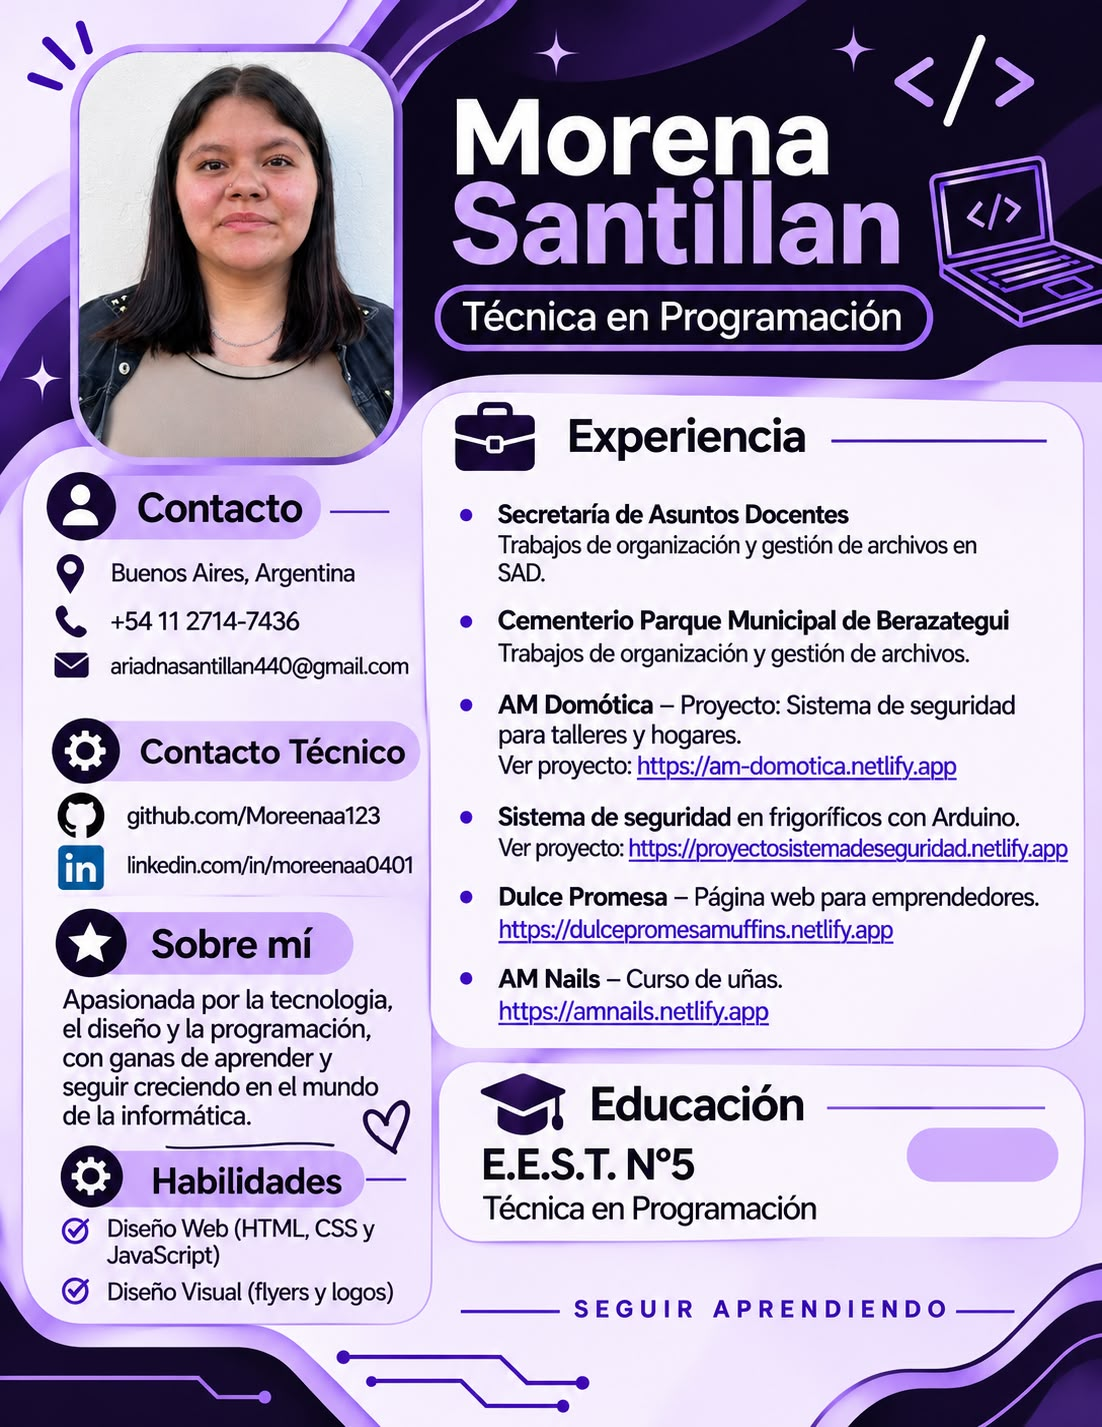
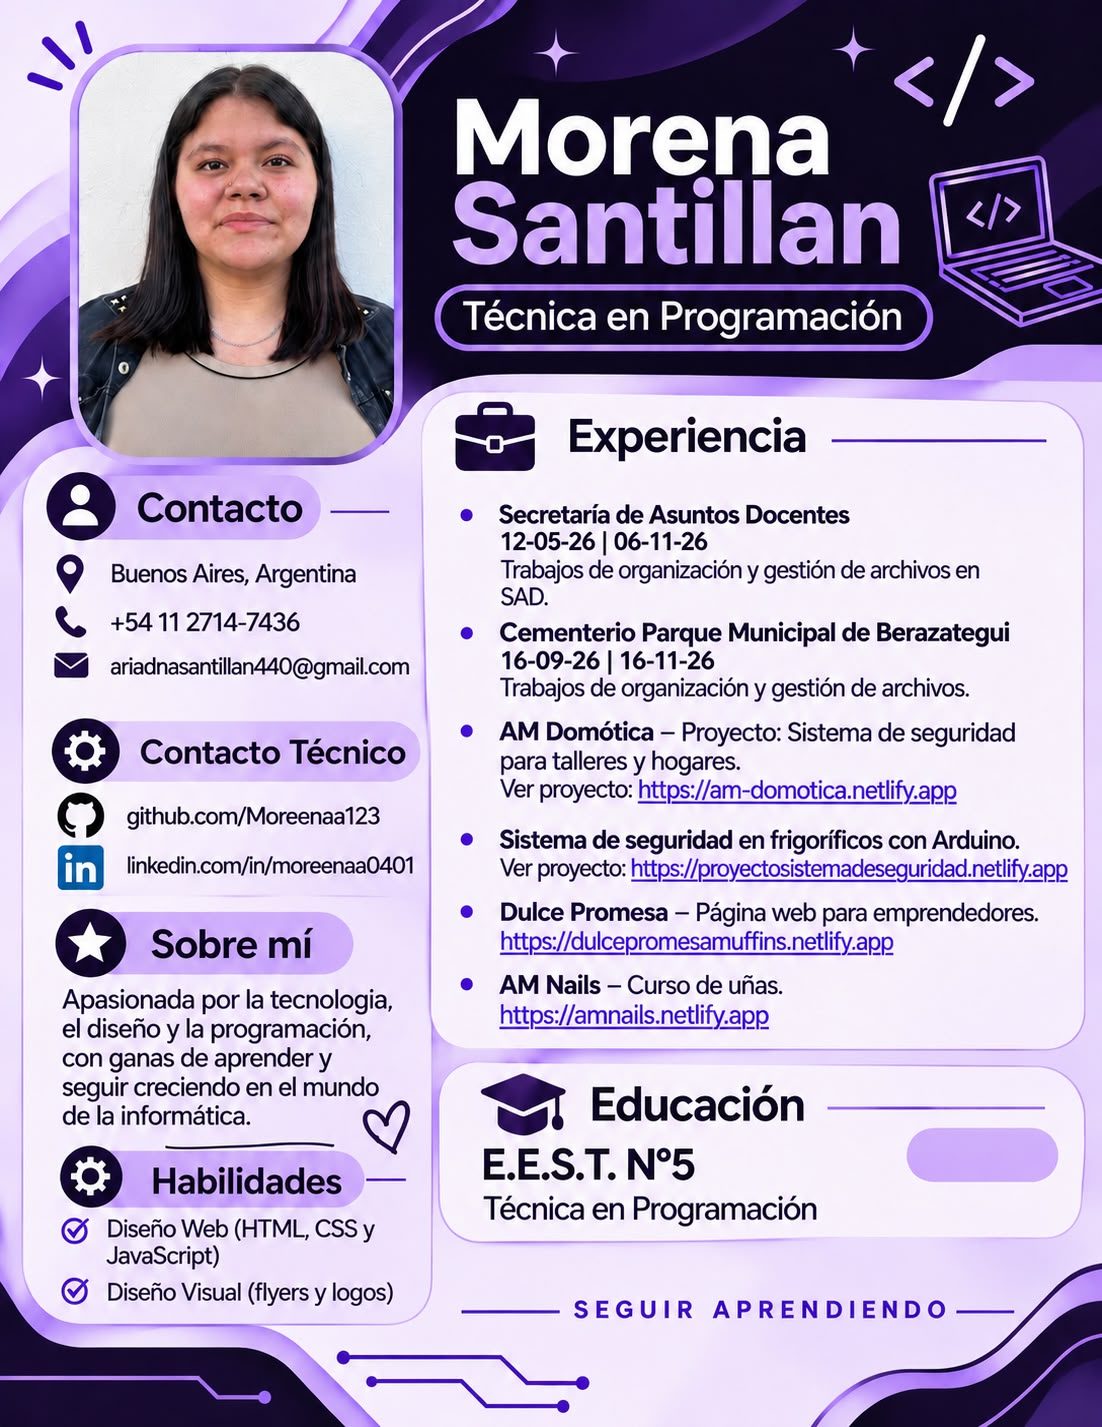
Add files via upload

diff --git a/index.html b/index.html
@@ -156,10 +156,6 @@
             con la mejora continua.
           </p>
 
-          <p>
-            Disfruto analizar desafíos, proponer soluciones tecnológicas
-            y desarrollar experiencias digitales centradas en las personas.
-          </p>
         </article>
 
         <article class="panel education-card">
@@ -170,7 +166,6 @@
 
           <h3>E.E.S.T. Nº5</h3>
           <p>Escuela de Educación Secundaria Técnica N°5</p>
-          <span class="education-date">2020 — 2026</span>
           <div class="education-line"></div>
           <strong>Título: Técnica en Programación</strong>
         </article>
@@ -182,10 +177,7 @@
           <strong>10+</strong>
           <span>Proyectos realizados</span>
         </div>
-        <div class="stat-card">
-          <strong>04</strong>
-          <span>Años de formación técnica</span>
-        </div>
+  
         <div class="stat-card">
           <strong>100%</strong>
           <span>Compromiso y creatividad</span>
@@ -250,12 +242,6 @@
           <i class="fab fa-js" aria-hidden="true"></i>
           <div class="skill-info"><span>JavaScript</span><small>Interactividad y lógica</small></div>
         </div>
-
-        <div class="skill-item">
-          <i class="fab fa-php" aria-hidden="true"></i>
-          <div class="skill-info"><span>PHP</span><small>Lógica del lado del servidor</small></div>
-        </div>
-
 
         <div class="skill-item">
           <i class="fas fa-pen-ruler" aria-hidden="true"></i>
@@ -407,6 +393,21 @@
             <h3>Sistema de dulce promesa</h3>
             <p>Proyecto orientado a los Emprendedores.</p>
             <a href="https://dulcepromesamuffins.netlify.app/" target="_blank" rel="noopener noreferrer" class="project-link">
+              Ver proyecto <i class="fas fa-arrow-up-right-from-square"></i>
+            </a>
+          </div>
+        </article>
+
+        <article class="project-card">
+          <div class="project-image" data-fallback="Sistema S.A.D">
+            <img src="./img/miniatura10.png" alt="Sistema S.A.D" loading="lazy" onerror="this.style.display='none'; this.parentElement.classList.add('no-image');">
+            <span class="project-index">PROYECTO / 10</span>
+          </div>
+          <div class="project-content">
+            <span class="project-category">Tecnología y Programación</span>
+            <h3>Sistema De administración S.A.D</h3>
+            <p>Proyecto orientado a las tareas de gestión de archivos.</p>
+            <a href="https://sad-oficinas.onrender.com/" target="_blank" rel="noopener noreferrer" class="project-link">
               Ver proyecto <i class="fas fa-arrow-up-right-from-square"></i>
             </a>
           </div>
